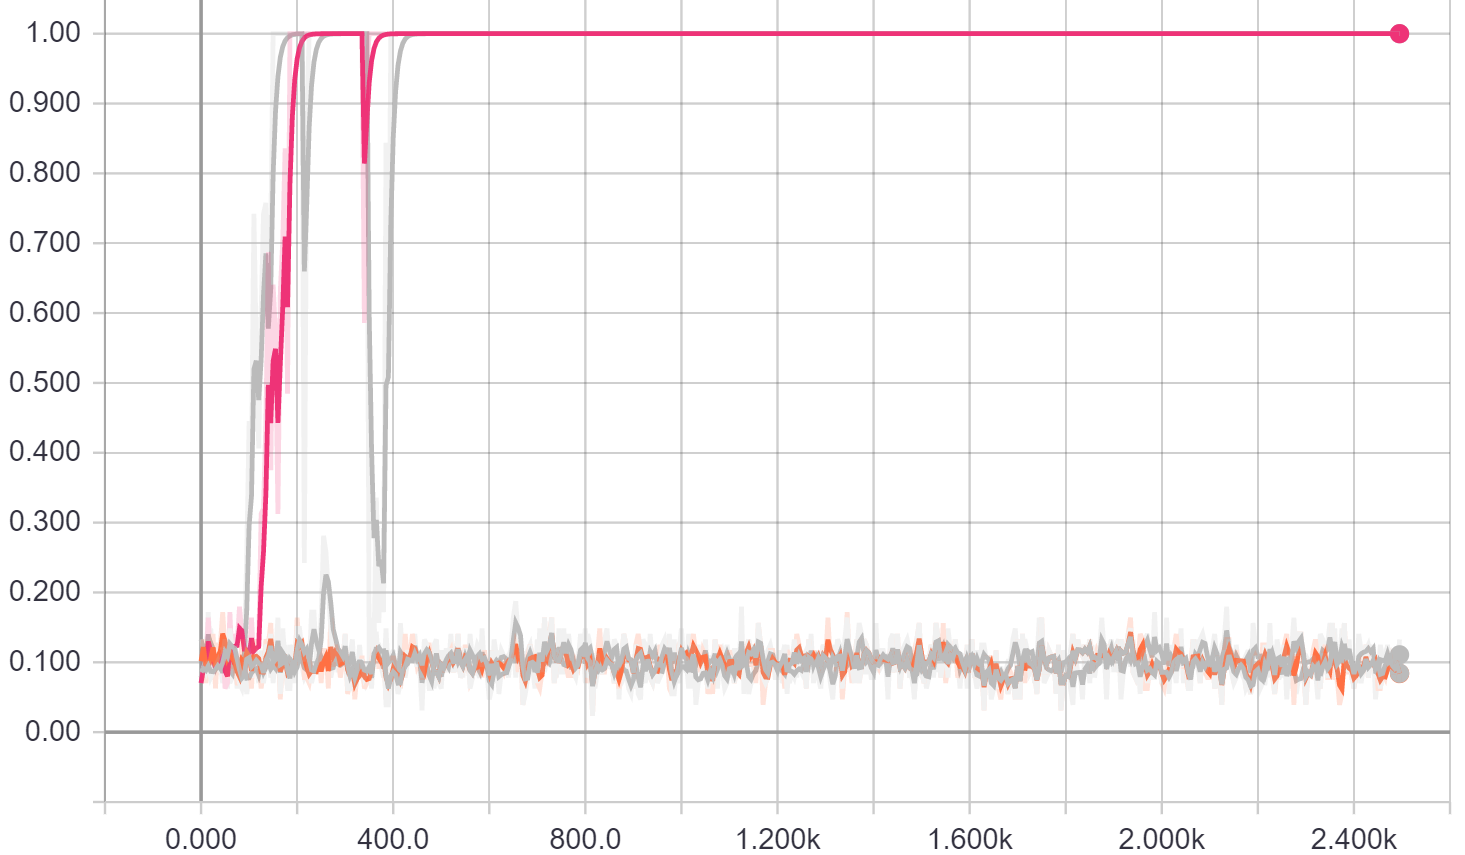
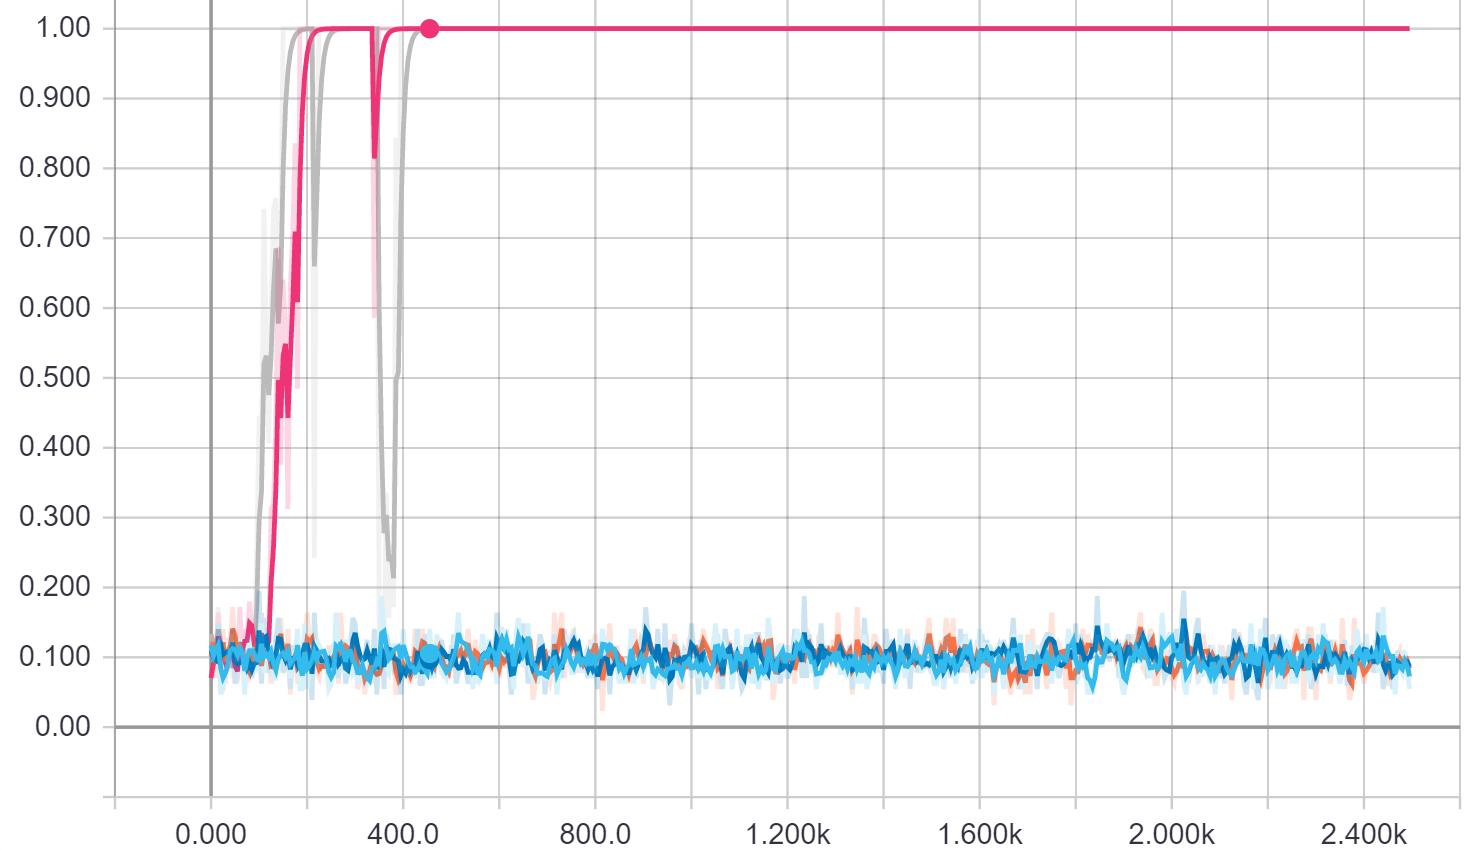
figs

Changed region(s): [[0.0, 0.0, 1.0, 1.0]]

diff --git a/assignment_2/part1/train.py b/assignment_2/part1/train.py
@@ -189,8 +189,8 @@ if __name__ == "__main__":
     if config.grid_search:
 
         for model_type in ['LSTM']:
-            for input_length in [5, 10, 20, 30, 50]:
-                for learning_rate in [5e-1]:
+            for input_length in [200,300]:
+                for learning_rate in [1e-1]:
                     for optimizer in ['adam']:
                         model_name = '{}_({}_{})_T{}'.format(model_type, optimizer, learning_rate, input_length)
                         config.model_type = model_type

diff --git a/assignment_2/part2/model.py b/assignment_2/part2/model.py
@@ -71,7 +71,6 @@ class TextGenerationModel(object):
     def _init_lstm_cell(self):
         return BasicLSTMCell(num_units=self._lstm_num_hidden, state_is_tuple=self.state_is_tuple, activation=tf.nn.relu)
 
-
     def _build_model(self):
         # Implement your model to return the logits per step of shape:
         #   [timesteps, batch_size, vocab_size]
